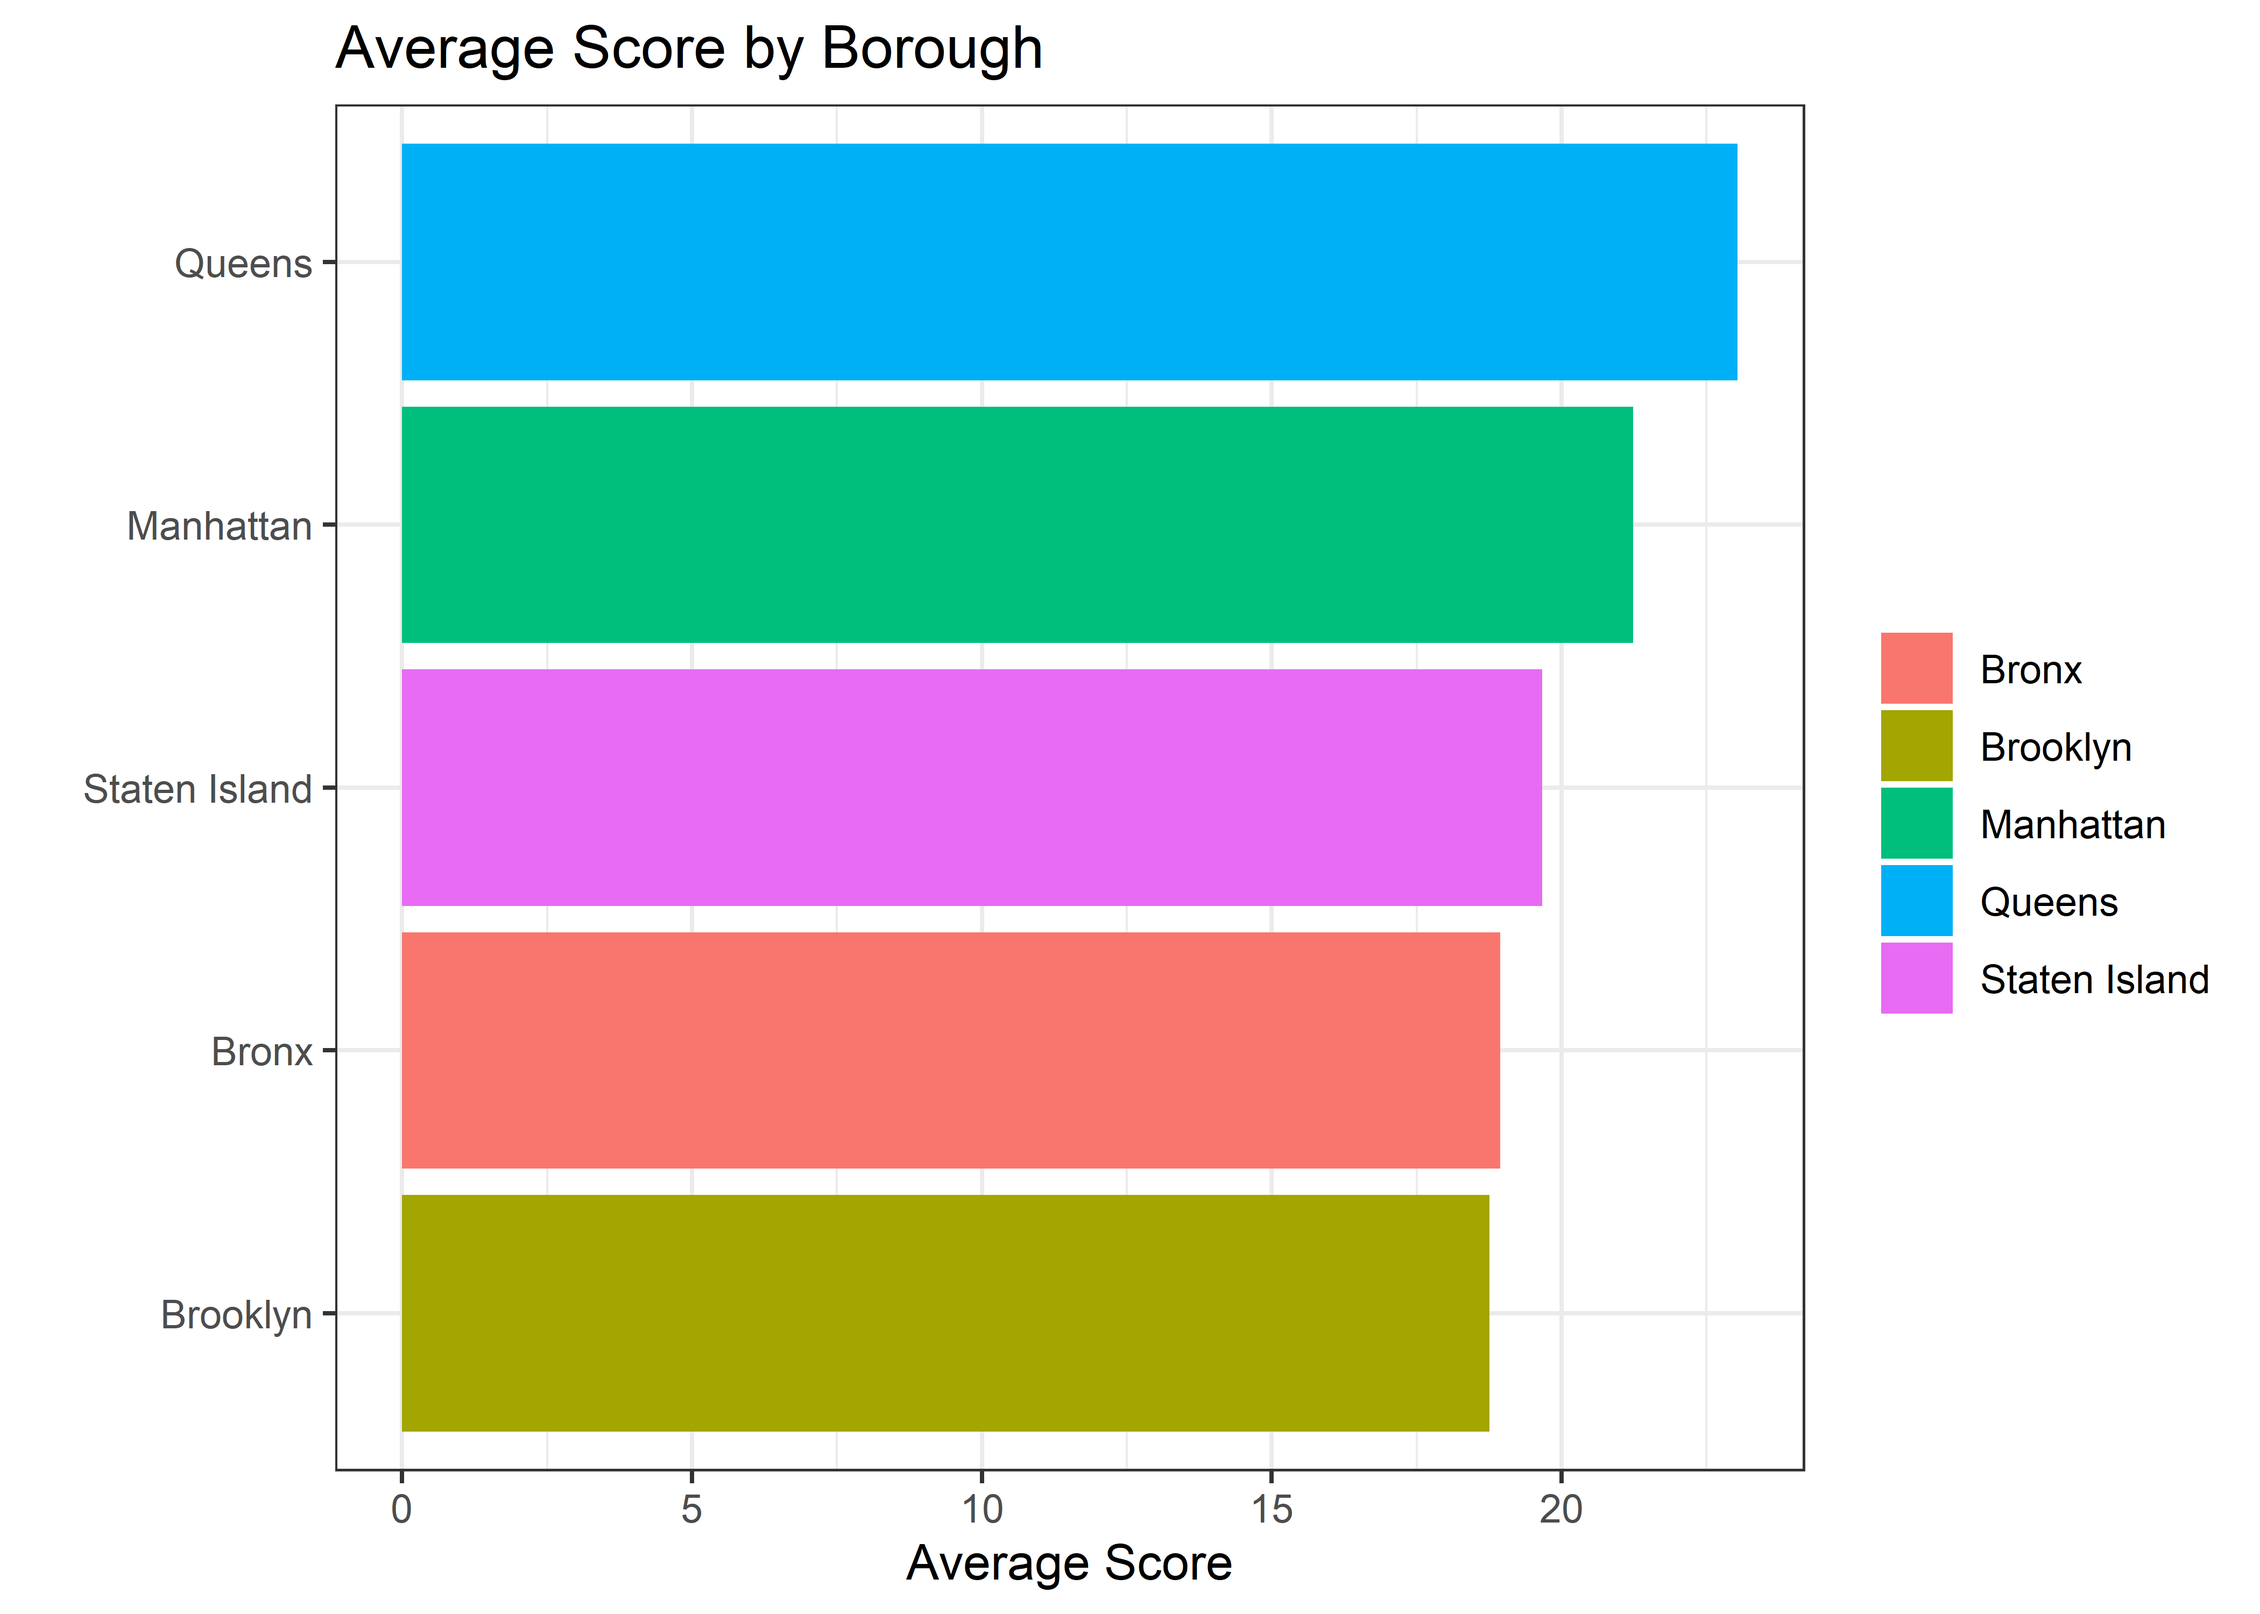
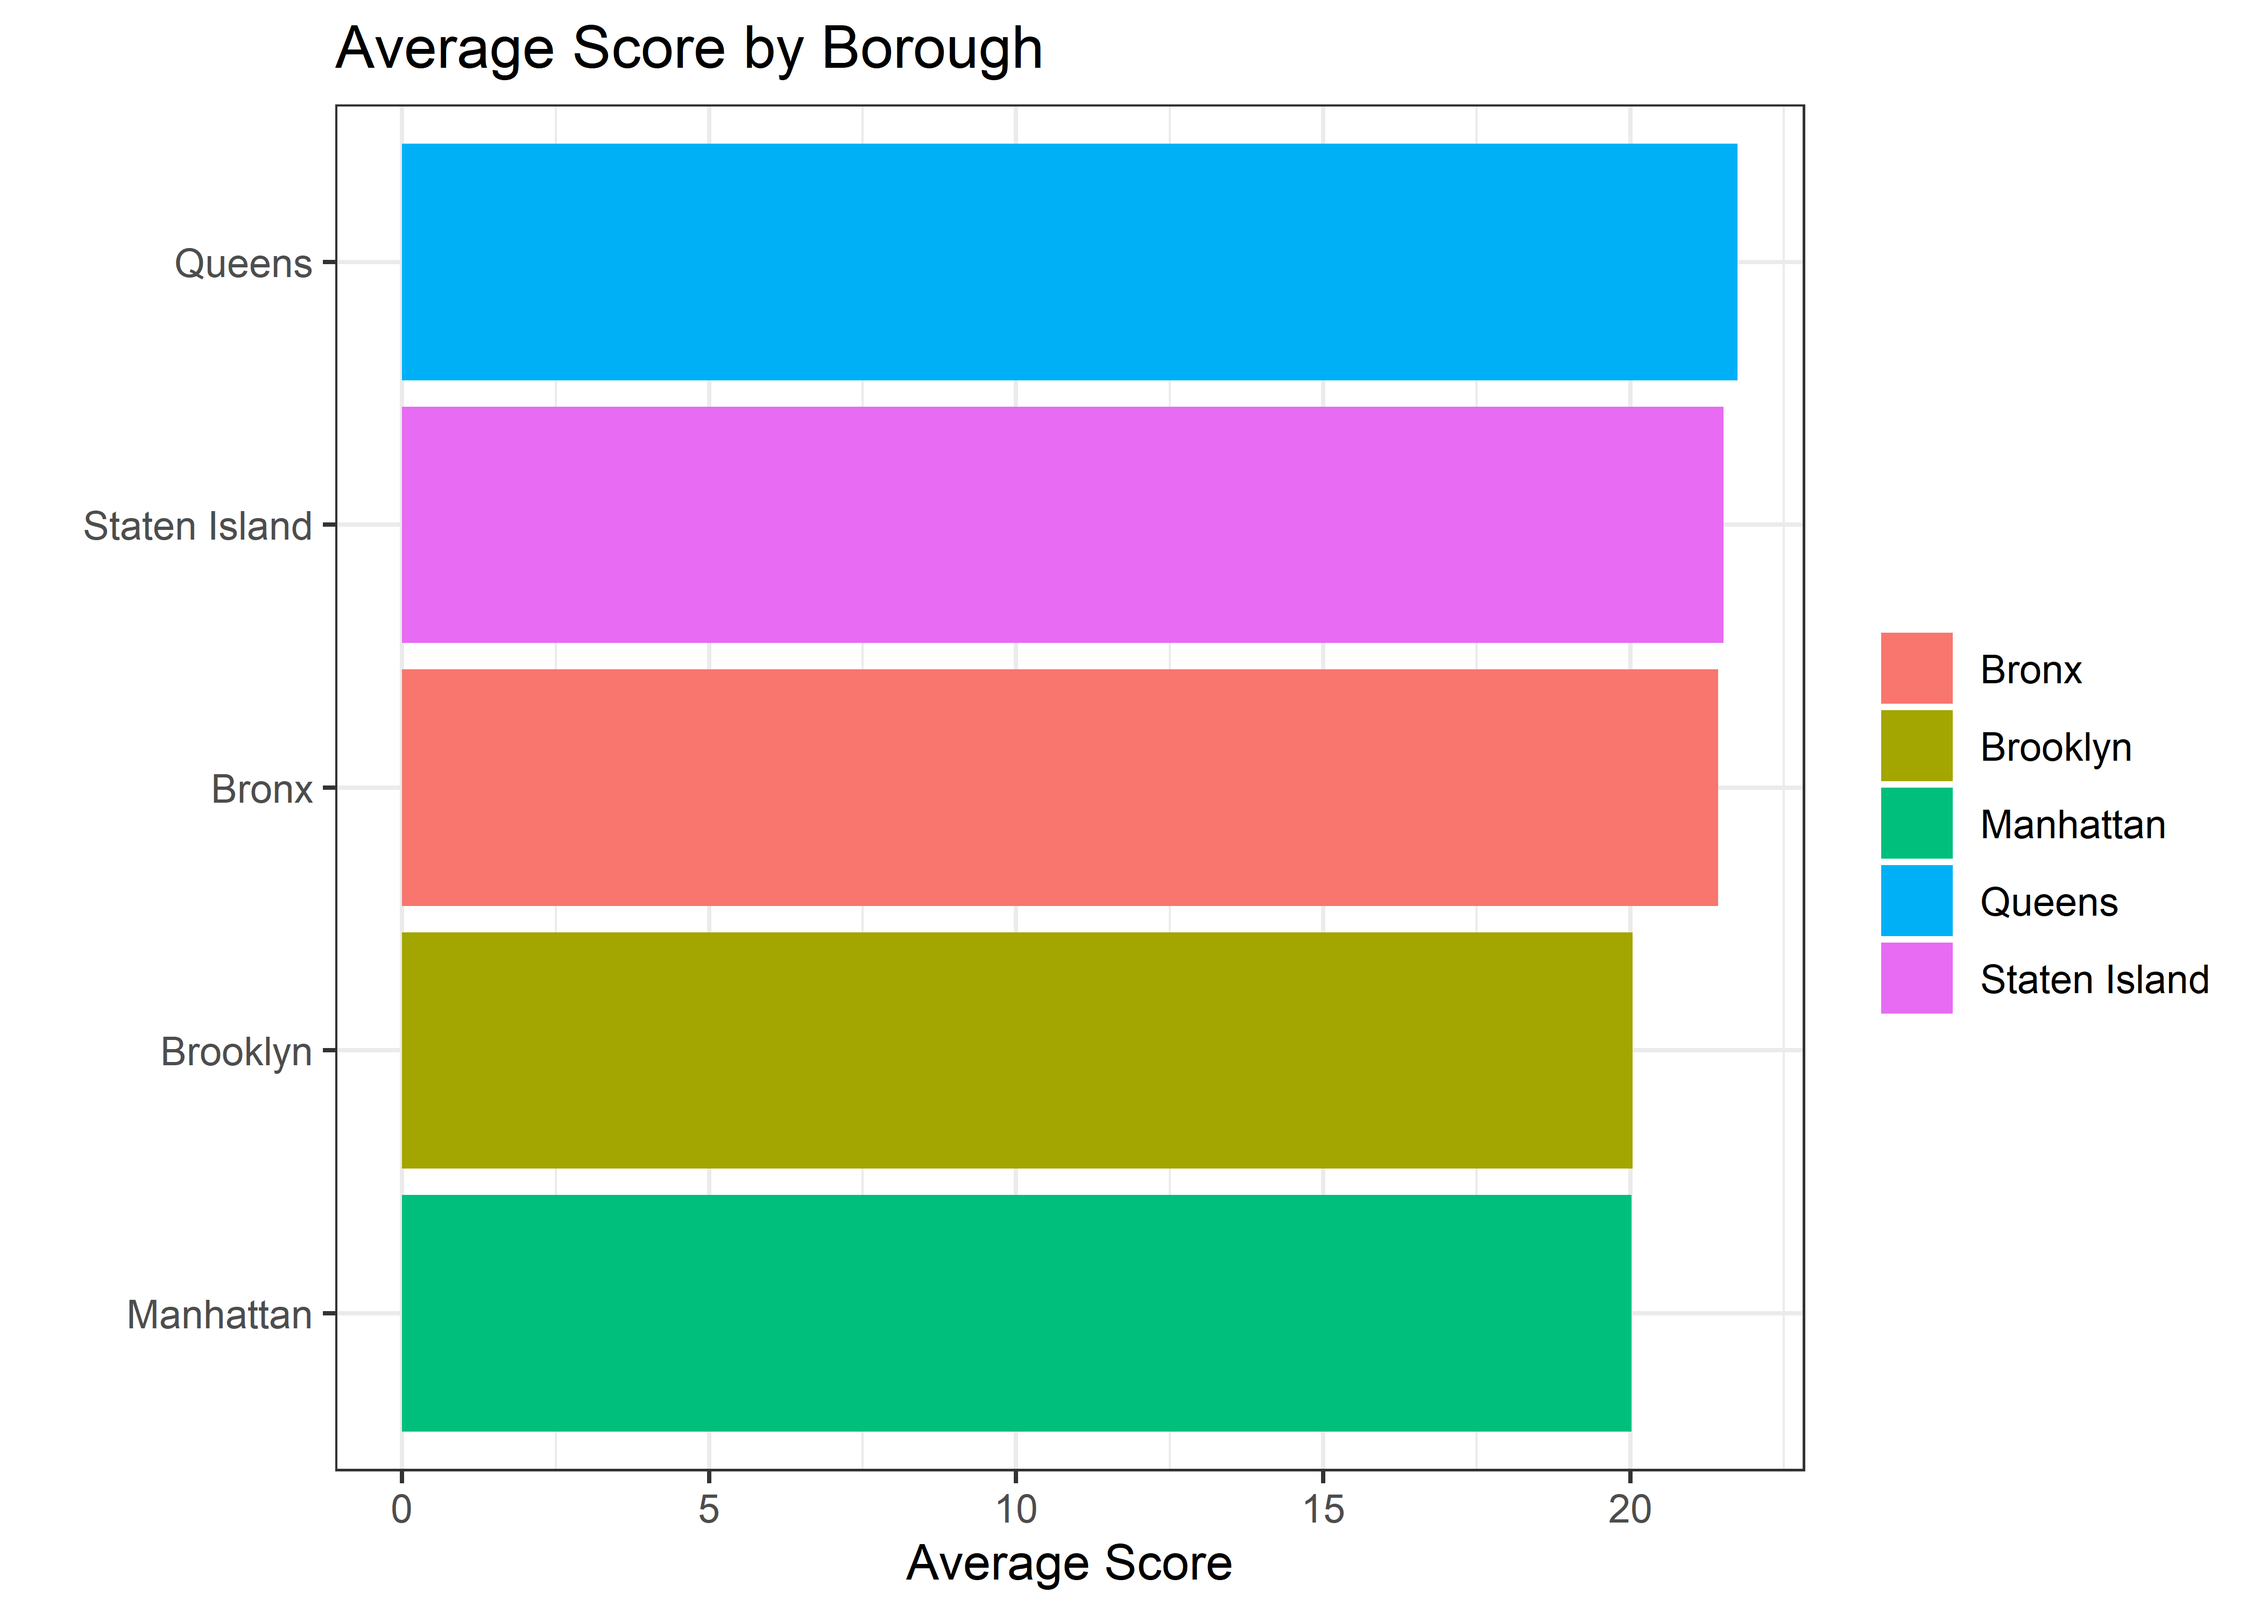
scores by grade plot

diff --git a/Inspection.md b/Inspection.md
@@ -33,27 +33,27 @@ inspections %>%
     ## # A tibble: 1 x 2
     ##   `min(score)` `max(score)`
     ##          <dbl>        <dbl>
-    ## 1            0           97
+    ## 1            0          116
 
 ``` r
 inspections %>%
   count(score, sort = TRUE)
 ```
 
-    ## # A tibble: 76 x 2
+    ## # A tibble: 78 x 2
     ##    score     n
     ##    <dbl> <int>
-    ##  1    12    95
-    ##  2    13    78
-    ##  3    10    68
+    ##  1    12    85
+    ##  2    13    82
+    ##  3    10    74
     ##  4     9    54
-    ##  5    11    49
-    ##  6    NA    45
-    ##  7    21    31
-    ##  8    19    29
-    ##  9    22    27
-    ## 10    20    26
-    ## # ... with 66 more rows
+    ##  5    NA    40
+    ##  6    11    38
+    ##  7     7    36
+    ##  8    23    30
+    ##  9    19    26
+    ## 10    20    23
+    ## # ... with 68 more rows
 
 ## Analysis of Boroughs
 
@@ -140,53 +140,64 @@ table[,c(3,1,2)] %>% knitr::kable()
 
 | Borough                | cuisine\_description           | max\_score |
 |:-----------------------|:-------------------------------|-----------:|
-| Bronx (Top)            | Donuts                         |         69 |
-| Bronx (Top)            | Coffee/Tea                     |         68 |
-| Bronx (Top)            | Chinese                        |         63 |
-| Bronx (Top)            | Latin American                 |         52 |
-| Bronx (Top)            | Pizza                          |         47 |
-| Bronx (Bottom)         | Steakhouse                     |         18 |
-| Bronx (Bottom)         | Bakery Products/Desserts       |         17 |
-| Bronx (Bottom)         | Hamburgers                     |         13 |
-| Bronx (Bottom)         | Japanese                       |         13 |
-| Bronx (Bottom)         | Frozen Desserts                |          7 |
-| Brooklyn (Top)         | Bakery Products/Desserts       |         75 |
-| Brooklyn (Top)         | Caribbean                      |         63 |
-| Brooklyn (Top)         | American                       |         57 |
-| Brooklyn (Top)         | Indian                         |         57 |
-| Brooklyn (Top)         | Asian/Asian Fusion             |         54 |
-| Brooklyn (Bottom)      | Hamburgers                     |         11 |
-| Brooklyn (Bottom)      | African                        |         10 |
-| Brooklyn (Bottom)      | French                         |         10 |
-| Brooklyn (Bottom)      | Greek                          |         10 |
-| Brooklyn (Bottom)      | Soul Food                      |          7 |
-| Manhattan (Top)        | Pizza                          |         97 |
-| Manhattan (Top)        | Chinese                        |         85 |
-| Manhattan (Top)        | Italian                        |         78 |
-| Manhattan (Top)        | American                       |         70 |
+| Bronx (Top)            | Chicken                        |         75 |
+| Bronx (Top)            | Donuts                         |         68 |
+| Bronx (Top)            | Spanish                        |         65 |
+| Bronx (Top)            | Chinese                        |         57 |
+| Bronx (Top)            | Latin American                 |         53 |
+| Bronx (Bottom)         | Seafood                        |         13 |
+| Bronx (Bottom)         | Japanese                       |         12 |
+| Bronx (Bottom)         | Sandwiches                     |         12 |
+| Bronx (Bottom)         | Asian/Asian Fusion             |          9 |
+| Bronx (Bottom)         | Sandwiches/Salads/Mixed Buffet |          7 |
+| Brooklyn (Top)         | Hamburgers                     |         75 |
+| Brooklyn (Top)         | Caribbean                      |         60 |
+| Brooklyn (Top)         | Jewish/Kosher                  |         60 |
+| Brooklyn (Top)         | Thai                           |         60 |
+| Brooklyn (Top)         | Chicken                        |         59 |
+| Brooklyn (Bottom)      | Middle Eastern                 |         10 |
+| Brooklyn (Bottom)      | Australian                     |          9 |
+| Brooklyn (Bottom)      | Soups/Salads/Sandwiches        |          9 |
+| Brooklyn (Bottom)      | Vegan                          |          9 |
+| Brooklyn (Bottom)      | Juice, Smoothies, Fruit Salads |          7 |
+| Manhattan (Top)        | Chinese                        |        116 |
+| Manhattan (Top)        | American                       |        102 |
+| Manhattan (Top)        | Greek                          |         73 |
+| Manhattan (Top)        | Italian                        |         71 |
 | Manhattan (Top)        | African                        |         67 |
-| Manhattan (Bottom)     | Vegetarian                     |         12 |
-| Manhattan (Bottom)     | Hamburgers                     |         11 |
-| Manhattan (Bottom)     | Peruvian                       |         11 |
-| Manhattan (Bottom)     | Frozen Desserts                |          9 |
-| Manhattan (Bottom)     | Donuts                         |          6 |
-| Queens (Top)           | Sandwiches/Salads/Mixed Buffet |         91 |
-| Queens (Top)           | Chinese                        |         88 |
-| Queens (Top)           | Latin American                 |         83 |
-| Queens (Top)           | Sandwiches                     |         83 |
-| Queens (Top)           | American                       |         79 |
-| Queens (Bottom)        | Southeast Asian                |         12 |
-| Queens (Bottom)        | Continental                    |         11 |
-| Queens (Bottom)        | Frozen Desserts                |         11 |
-| Queens (Bottom)        | Seafood                        |          9 |
-| Queens (Bottom)        | Donuts                         |          8 |
-| Staten Island (Top)    | American                       |         76 |
-| Staten Island (Top)    | Chinese                        |         44 |
-| Staten Island (Top)    | Mexican                        |         36 |
-| Staten Island (Top)    | Russian                        |         32 |
-| Staten Island (Top)    | Chicken                        |         28 |
-| Staten Island (Bottom) | Hamburgers                     |         13 |
-| Staten Island (Bottom) | Sandwiches                     |         12 |
-| Staten Island (Bottom) | Japanese                       |          9 |
-| Staten Island (Bottom) | Spanish                        |          9 |
-| Staten Island (Bottom) | Coffee/Tea                     |          7 |
+| Manhattan (Bottom)     | Bagels/Pretzels                |          8 |
+| Manhattan (Bottom)     | Barbecue                       |          8 |
+| Manhattan (Bottom)     | Middle Eastern                 |          7 |
+| Manhattan (Bottom)     | Caribbean                      |          4 |
+| Manhattan (Bottom)     | Hotdogs/Pretzels               |          2 |
+| Queens (Top)           | Latin American                 |         94 |
+| Queens (Top)           | Peruvian                       |         93 |
+| Queens (Top)           | Mediterranean                  |         71 |
+| Queens (Top)           | Caribbean                      |         69 |
+| Queens (Top)           | Chinese                        |         67 |
+| Queens (Bottom)        | Donuts                         |          9 |
+| Queens (Bottom)        | Hamburgers                     |          9 |
+| Queens (Bottom)        | Polish                         |          9 |
+| Queens (Bottom)        | Pancakes/Waffles               |          5 |
+| Queens (Bottom)        | Soups/Salads/Sandwiches        |          3 |
+| Staten Island (Top)    | Caribbean                      |         63 |
+| Staten Island (Top)    | American                       |         49 |
+| Staten Island (Top)    | Pizza                          |         40 |
+| Staten Island (Top)    | Mexican                        |         31 |
+| Staten Island (Top)    | Italian                        |         30 |
+| Staten Island (Bottom) | Frozen Desserts                |         20 |
+| Staten Island (Bottom) | Soul Food                      |         20 |
+| Staten Island (Bottom) | Japanese                       |         19 |
+| Staten Island (Bottom) | Asian/Asian Fusion             |         12 |
+| Staten Island (Bottom) | Donuts                         |         12 |
+
+``` r
+inspections %>%
+  filter(grade %in% c("A", "B", "C")) %>%
+  group_by(grade) %>%
+  summarize(n = mean(score)) %>%
+  ggplot(aes(n, fct_rev(grade))) + geom_col(fill = "blue") +
+  labs(y = "Grade", x = "Average Score")
+```
+
+![](Inspection_files/figure-gfm/unnamed-chunk-6-1.png)<!-- -->
